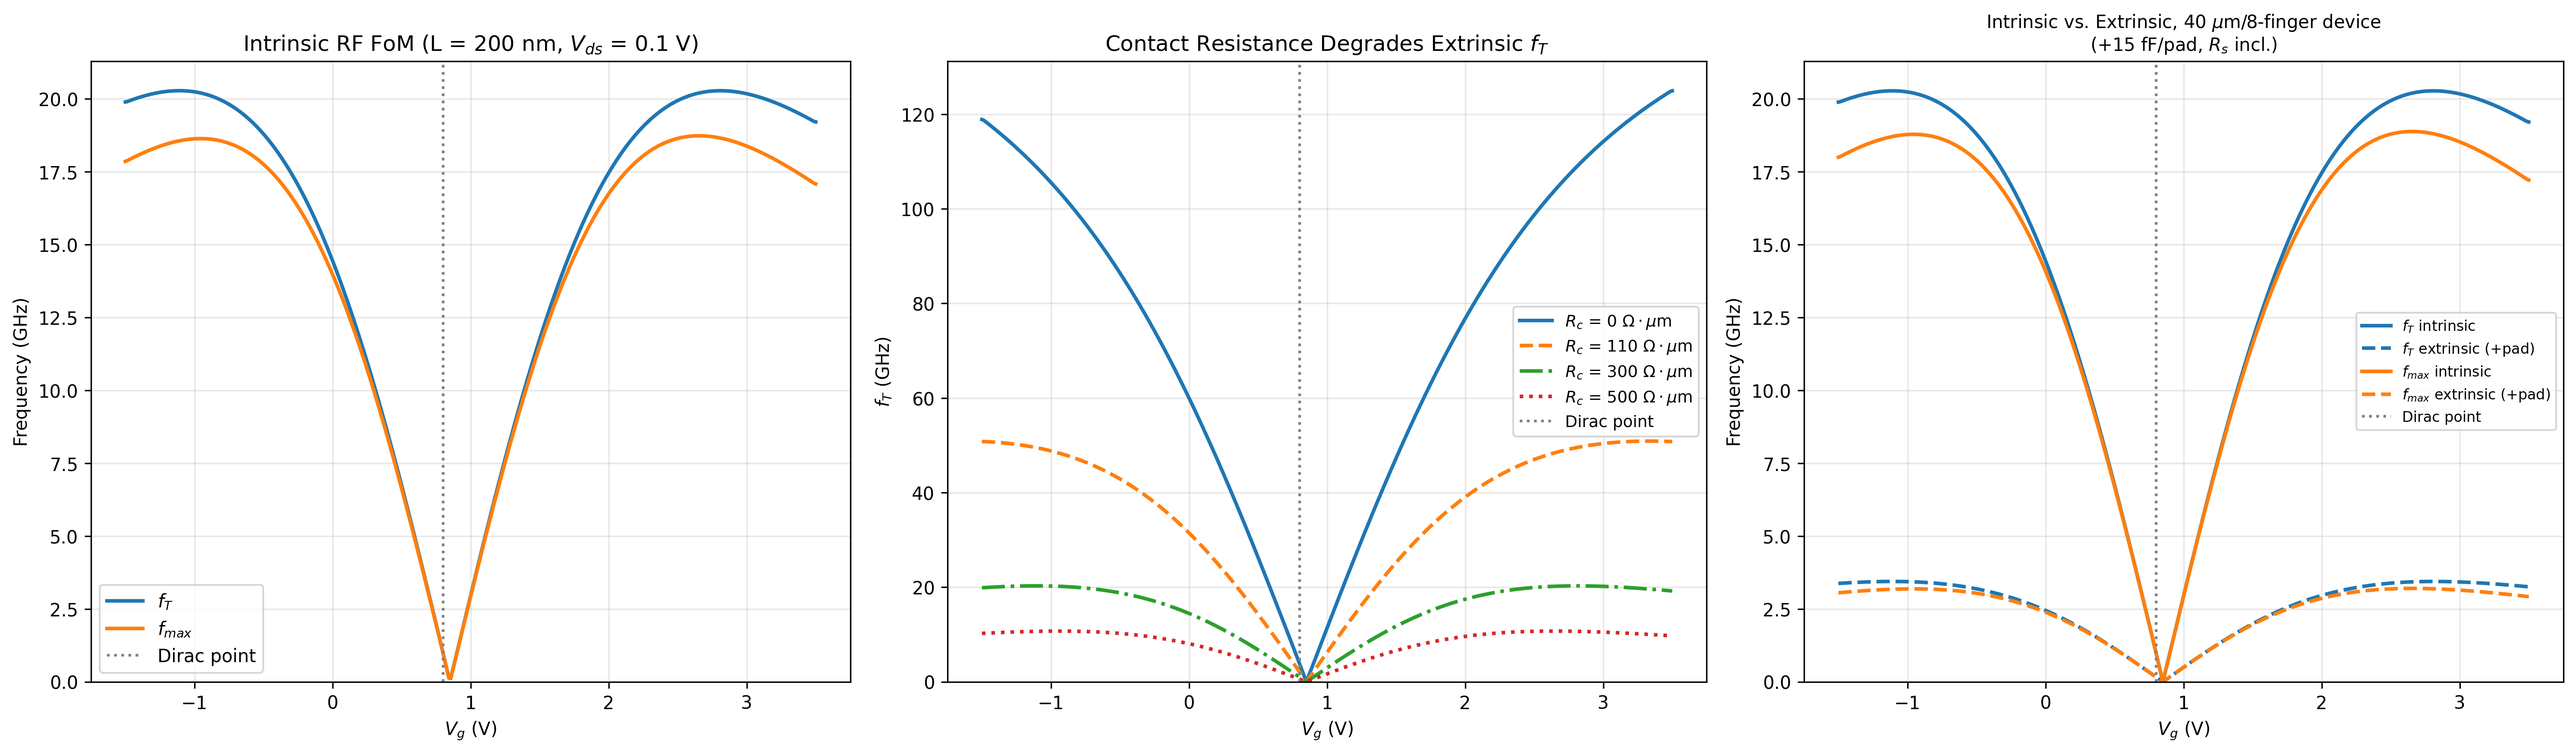
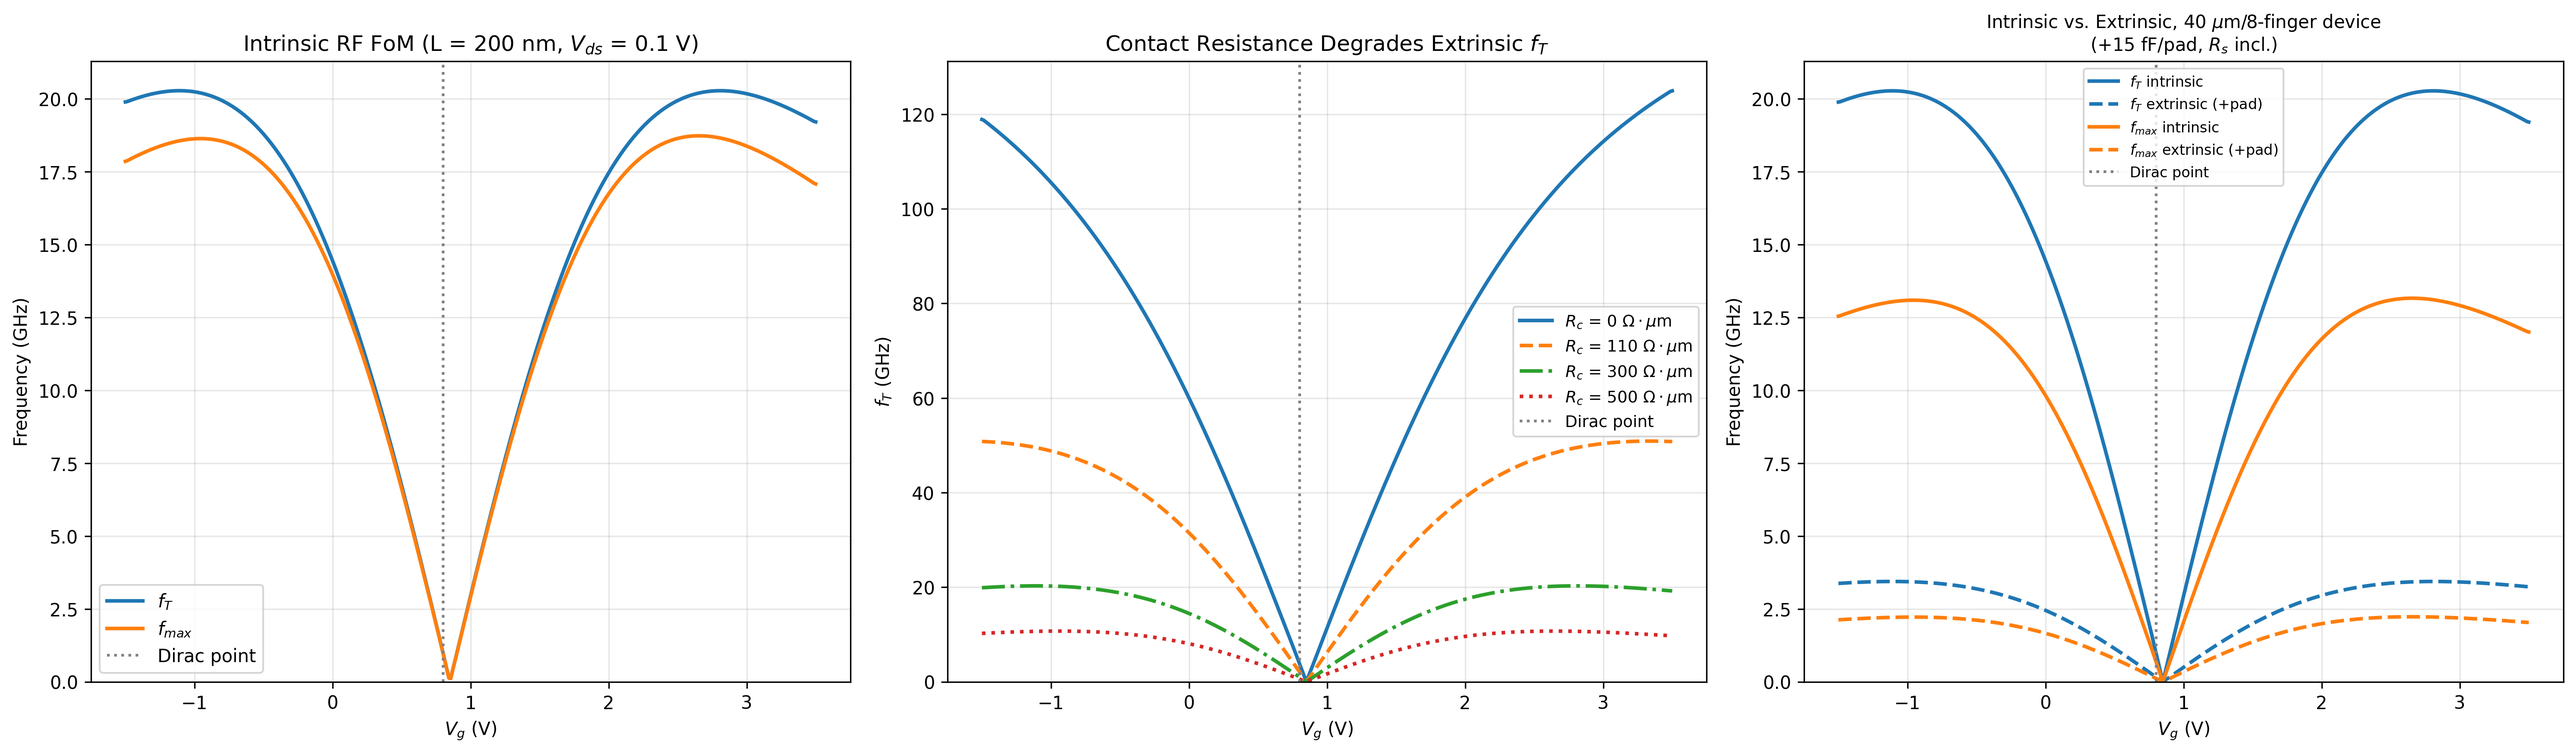
rf_small_signal_model: late-bind gate_resistance's CROSS-MODULE defaults -- the frozen capture silently defeated compute_fT_fmax's own W override, and peak f_max was overstated 1.44x
`def gate_resistance(L=gfet.L, W=gfet.W, N_fingers=1)` read both names out of
ANOTHER module once, at `def` time.  That is the 2026-09-29 frozen-default
fault in a form the 09-30 delivery probe cannot see: `classify(gfet, 'W')`
returns LIVE, correctly, because every reader of `W` inside
graphene_fet_model IS live.  The frozen reader lives in the CONSUMING module.

This was not latent.  `compute_fT_fmax`'s W override exists to rescale the
device from this repository's 1 um per-width convention up to W_RF = 40 um,
and it does so by REBINDING gfet.W.  R_g kept the 1 um it had captured, so
the gate resistance entering BOTH f_max denominators was too small by exactly
W_RF / gfet.W = 40.

CONTRADICTS the committed numbers, stated rather than quietly rewritten.
Peak values at W_RF, 8 fingers, Vds = 0.1 V:

    f_max intrinsic   18.786 GHz  ->  13.094 GHz   (1.4347x)
    f_max extrinsic    3.1885 GHz ->   2.2196 GHz  (1.4365x)
    f_T  (both)       bitwise unchanged -- R_g does not enter f_T

The superseded numbers are kept in the docstring beside the corrected ones.

Three things made this survive:

1. The transcript printed the RIGHT R_g next to an f_max computed from the
   wrong one.  `summary_numbers` calls gate_resistance(W=W_RF, ...) with W
   EXPLICIT and prints 8.33 Ohm; `_compute_fT_fmax_core` calls it with the
   default and got 0.208 Ohm.  The printed diagnostic and the number it was
   supposed to diagnose came from different values of the same quantity.
[…]

diff --git a/rf_small_signal_model.py b/rf_small_signal_model.py
@@ -93,7 +93,7 @@ C_pad_per_pad = 15e-15         # F, assumed GSG pad capacitance (extrinsic
                                 # value for this exact device geometry.
 
 
-def gate_resistance(L=gfet.L, W=gfet.W, N_fingers=1):
+def gate_resistance(L=None, W=None, N_fingers=1):
     """Distributed gate resistance for a single-side-fed metal gate finger.
     R_g = rho_sheet * W_gate / (3 * L_gate); the factor of 3 is the
     standard result for a transmission-line gate fed from one edge.
@@ -107,7 +107,32 @@ def gate_resistance(L=gfet.L, W=gfet.W, N_fingers=1):
     notes/2026-08-26-fmax-parasitics-and-fT-fmax-ratio.md). Default
     N_fingers=1 reproduces the original single-finger formula exactly,
     so this is backward-compatible with the per-um curves used
-    elsewhere in this module."""
+    elsewhere in this module.
+
+    LATE-BOUND as of 2026-10-03.  `L` and `W` previously defaulted to
+    `gfet.L` and `gfet.W` as function-parameter DEFAULTS, i.e. they were
+    read once, at `def` time, out of ANOTHER module.  That is the
+    2026-09-29 frozen-default fault in its cross-module form, and here it
+    was not a latent risk: it silently defeated `compute_fT_fmax`'s own W
+    override.  That override exists to rescale the device from this
+    repository's 1 um per-width convention up to `W_RF = 40 um`, and it
+    does so by REBINDING `gfet.W`; `R_g` kept the 1 um it had captured, so
+    the gate resistance entering `f_max` was too small by EXACTLY
+    `W_RF / gfet.W = 40`.  Measured consequence, peak f_max at W_RF with
+    N_FINGERS_RF = 8 and Vds = 0.1 V:
+
+        intrinsic   18.786 GHz  (superseded)  ->  13.094 GHz  (this code)
+        extrinsic    3.1885 GHz (superseded)  ->   2.2196 GHz (this code)
+
+    The superseded numbers are left stated rather than deleted.  Reading
+    both names at CALL time costs nothing and makes the override arrive;
+    explicit arguments behave exactly as before, so the `W=W_RF` call
+    sites in this module are unchanged in value, and every path that does
+    NOT pass W is bitwise unchanged.  See
+    notes/2026-10-03-a-frozen-default-in-another-module.md.
+    """
+    L = gfet.L if L is None else L
+    W = gfet.W if W is None else W
     return R_sheet_gate * W / (3.0 * L * N_fingers ** 2)
 
 
